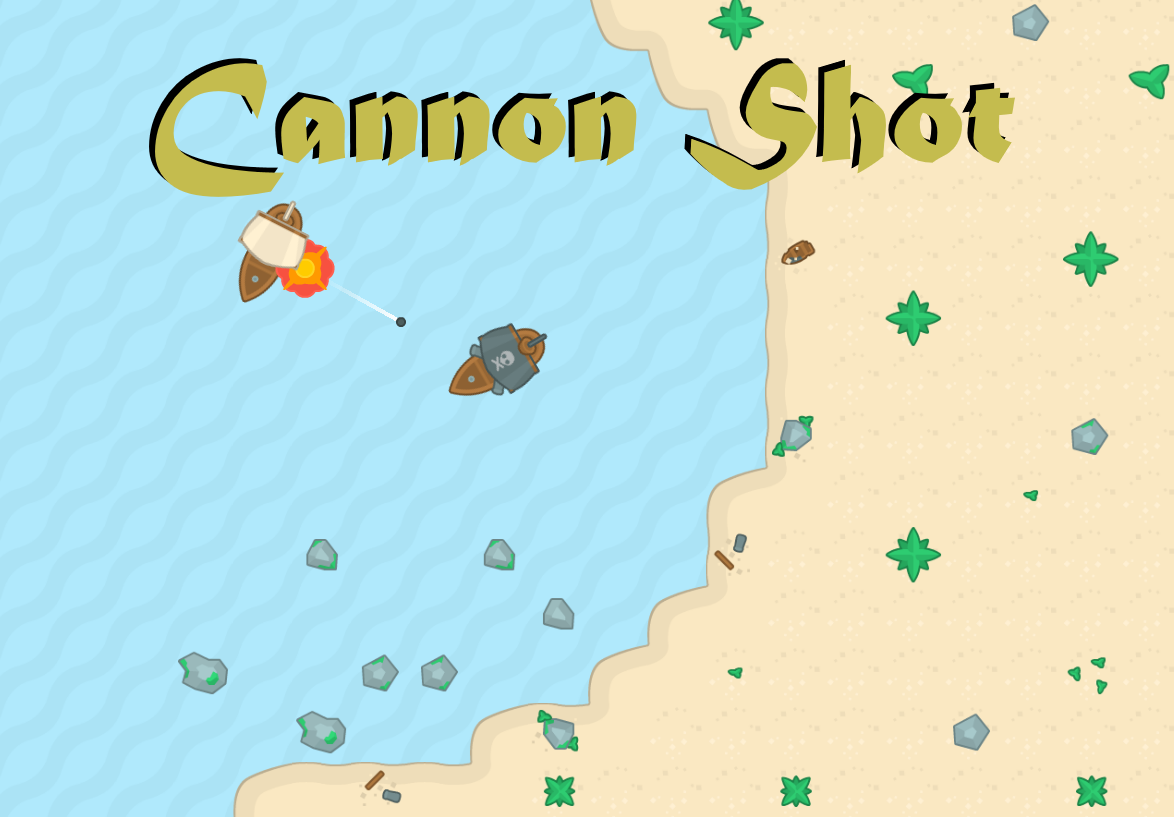
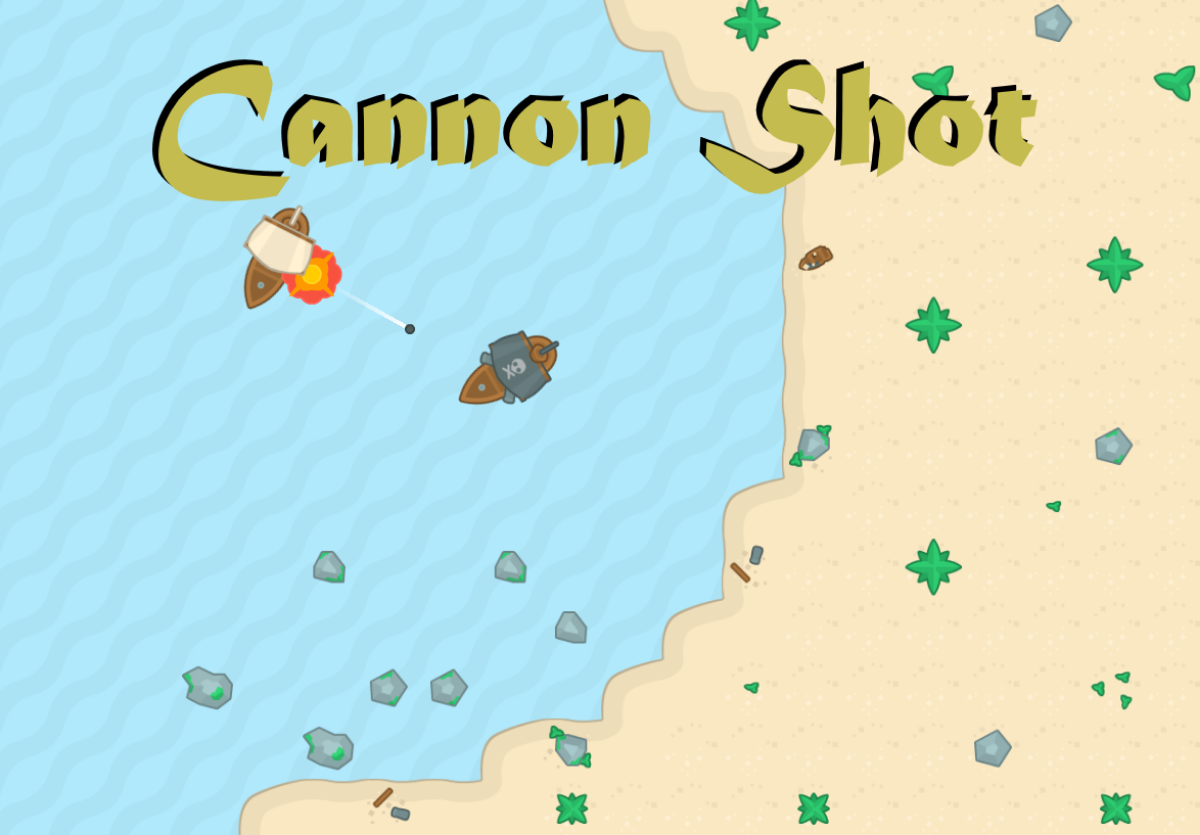
Fixed #48 Main Menu image is larger and set at 0,0

diff --git a/core/src/com/hfentonfearn/screens/MainMenuScreen.java b/core/src/com/hfentonfearn/screens/MainMenuScreen.java
@@ -98,7 +98,7 @@ public class MainMenuScreen extends AbstractScreen {
     private void addBackground() {
         Texture texture = AssetLoader.ui.mainMenu;
         Image itemImage = new Image();
-        itemImage.setPosition(10, 10);
+        itemImage.setPosition(0, 0);
         itemImage.setDrawable(new TextureRegionDrawable(new TextureRegion(texture)));
         itemImage.setSize(texture.getWidth(), texture.getHeight());
         stage.addActor(itemImage);
